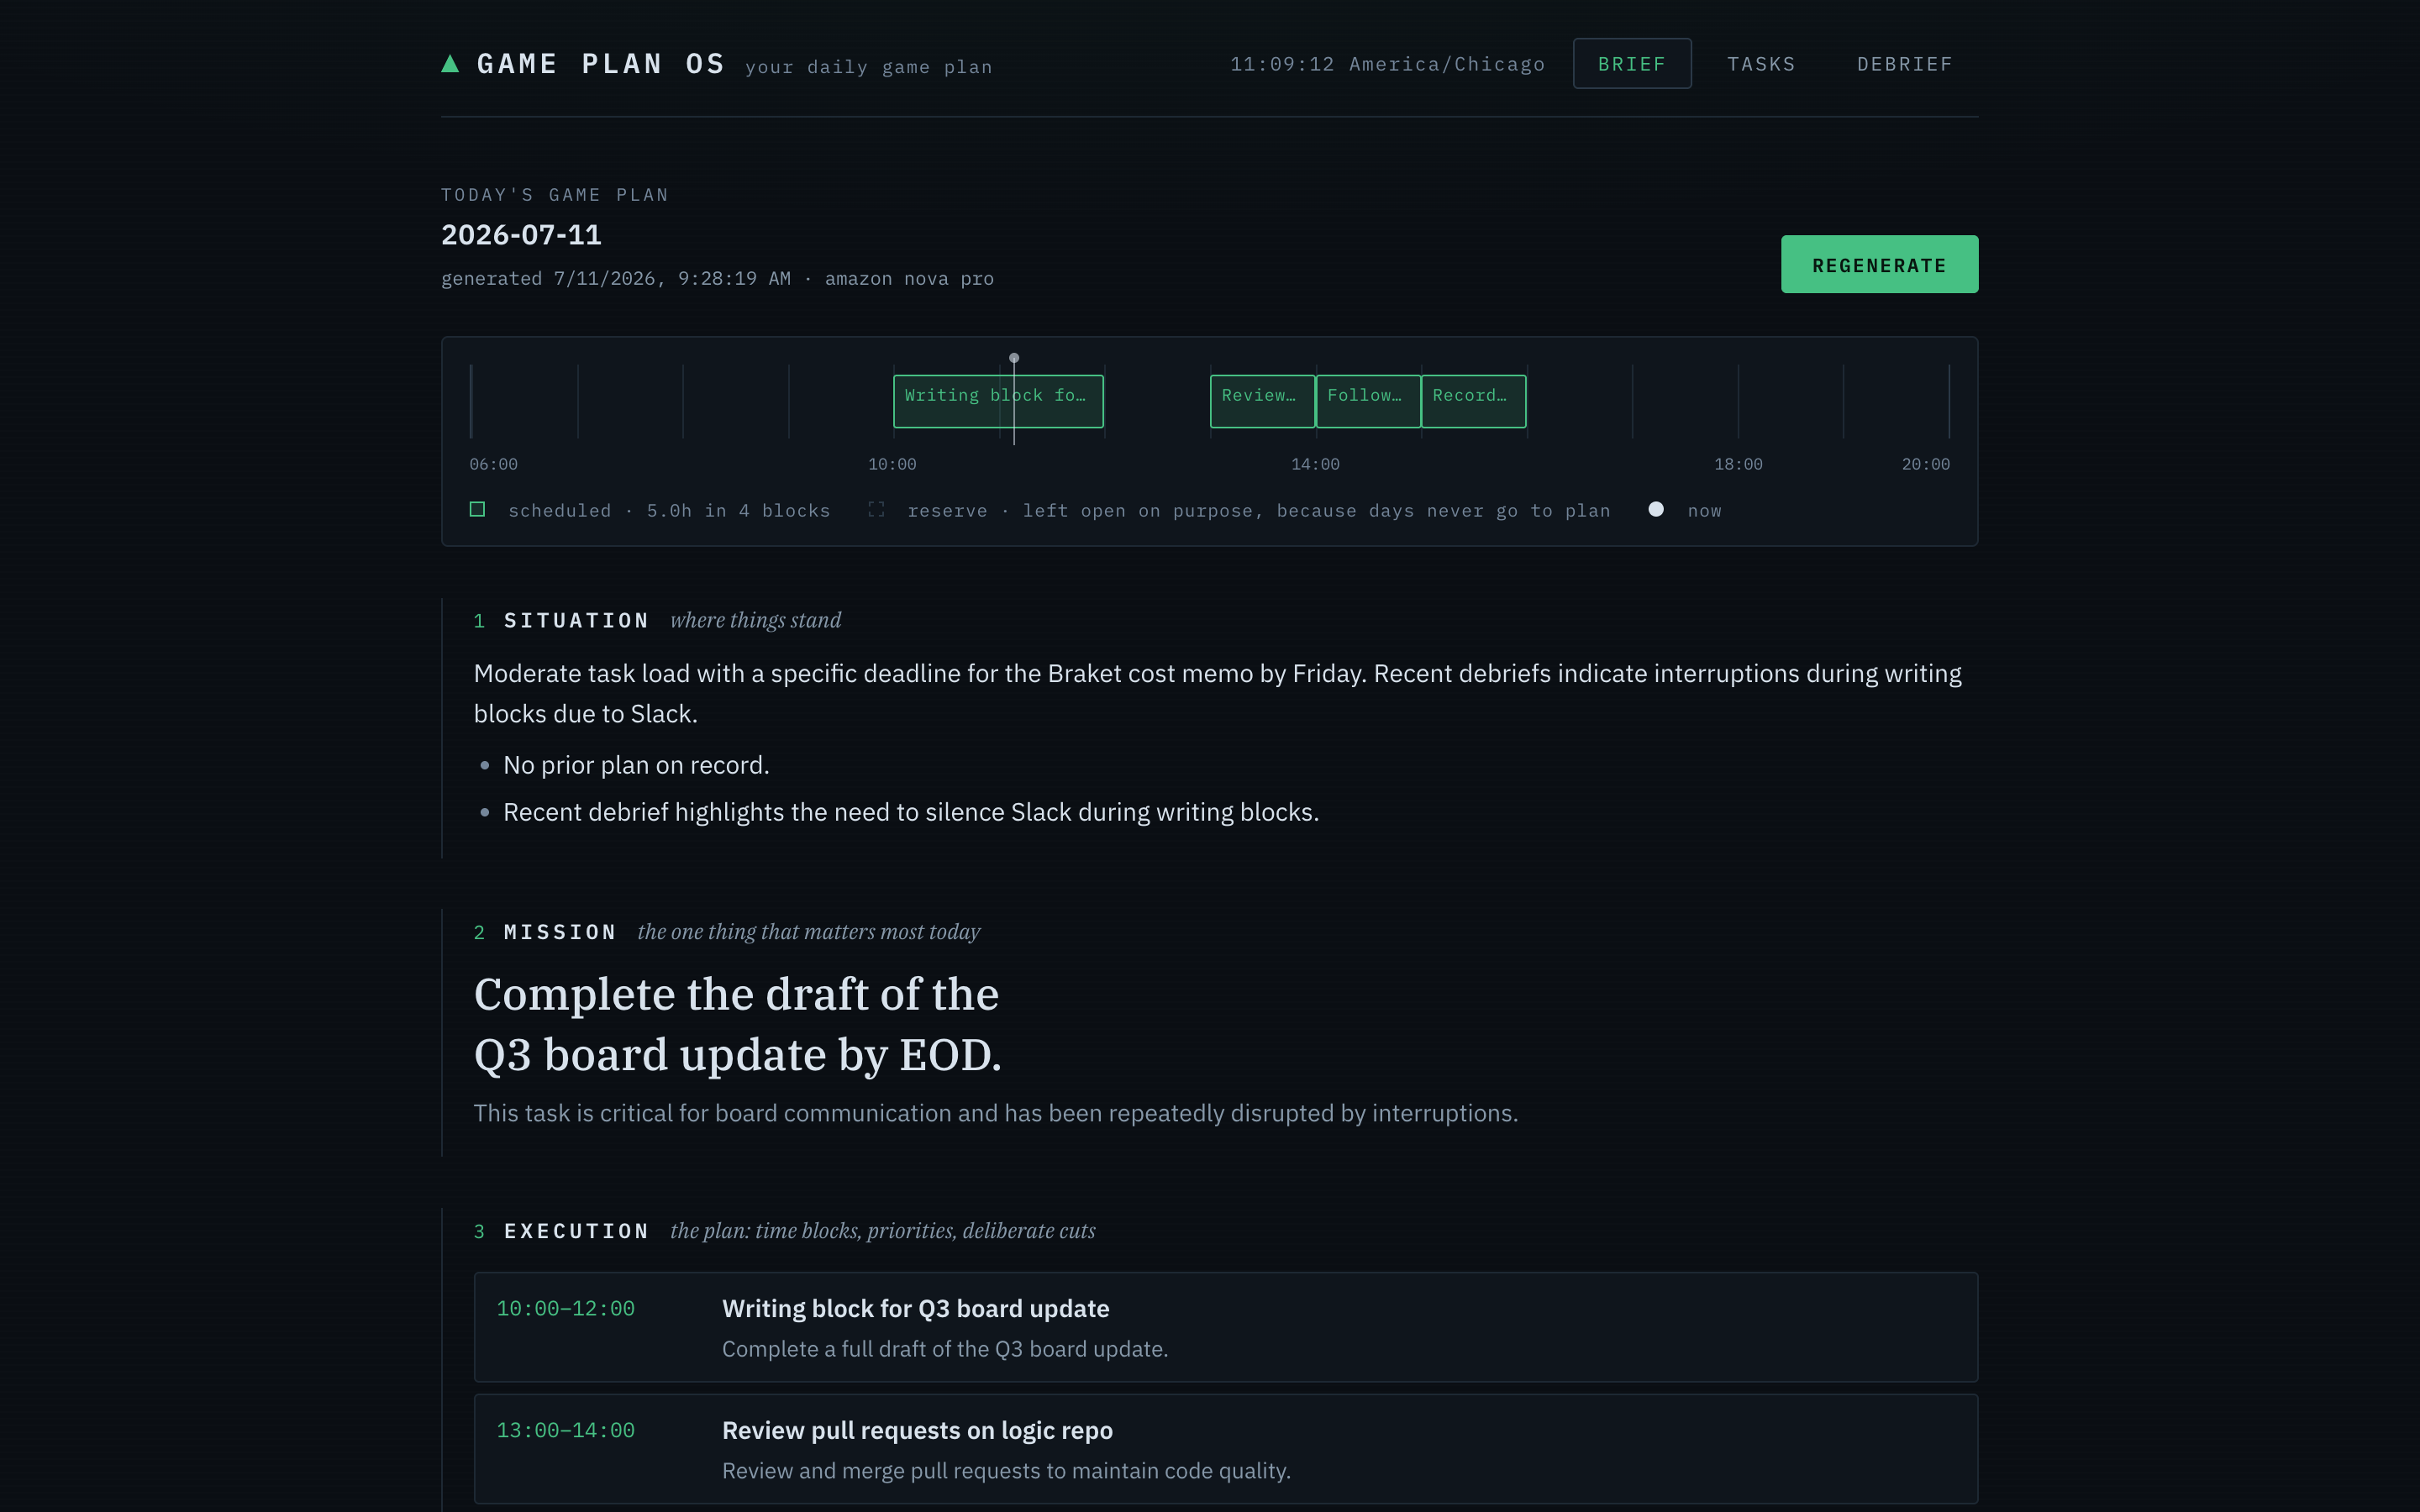
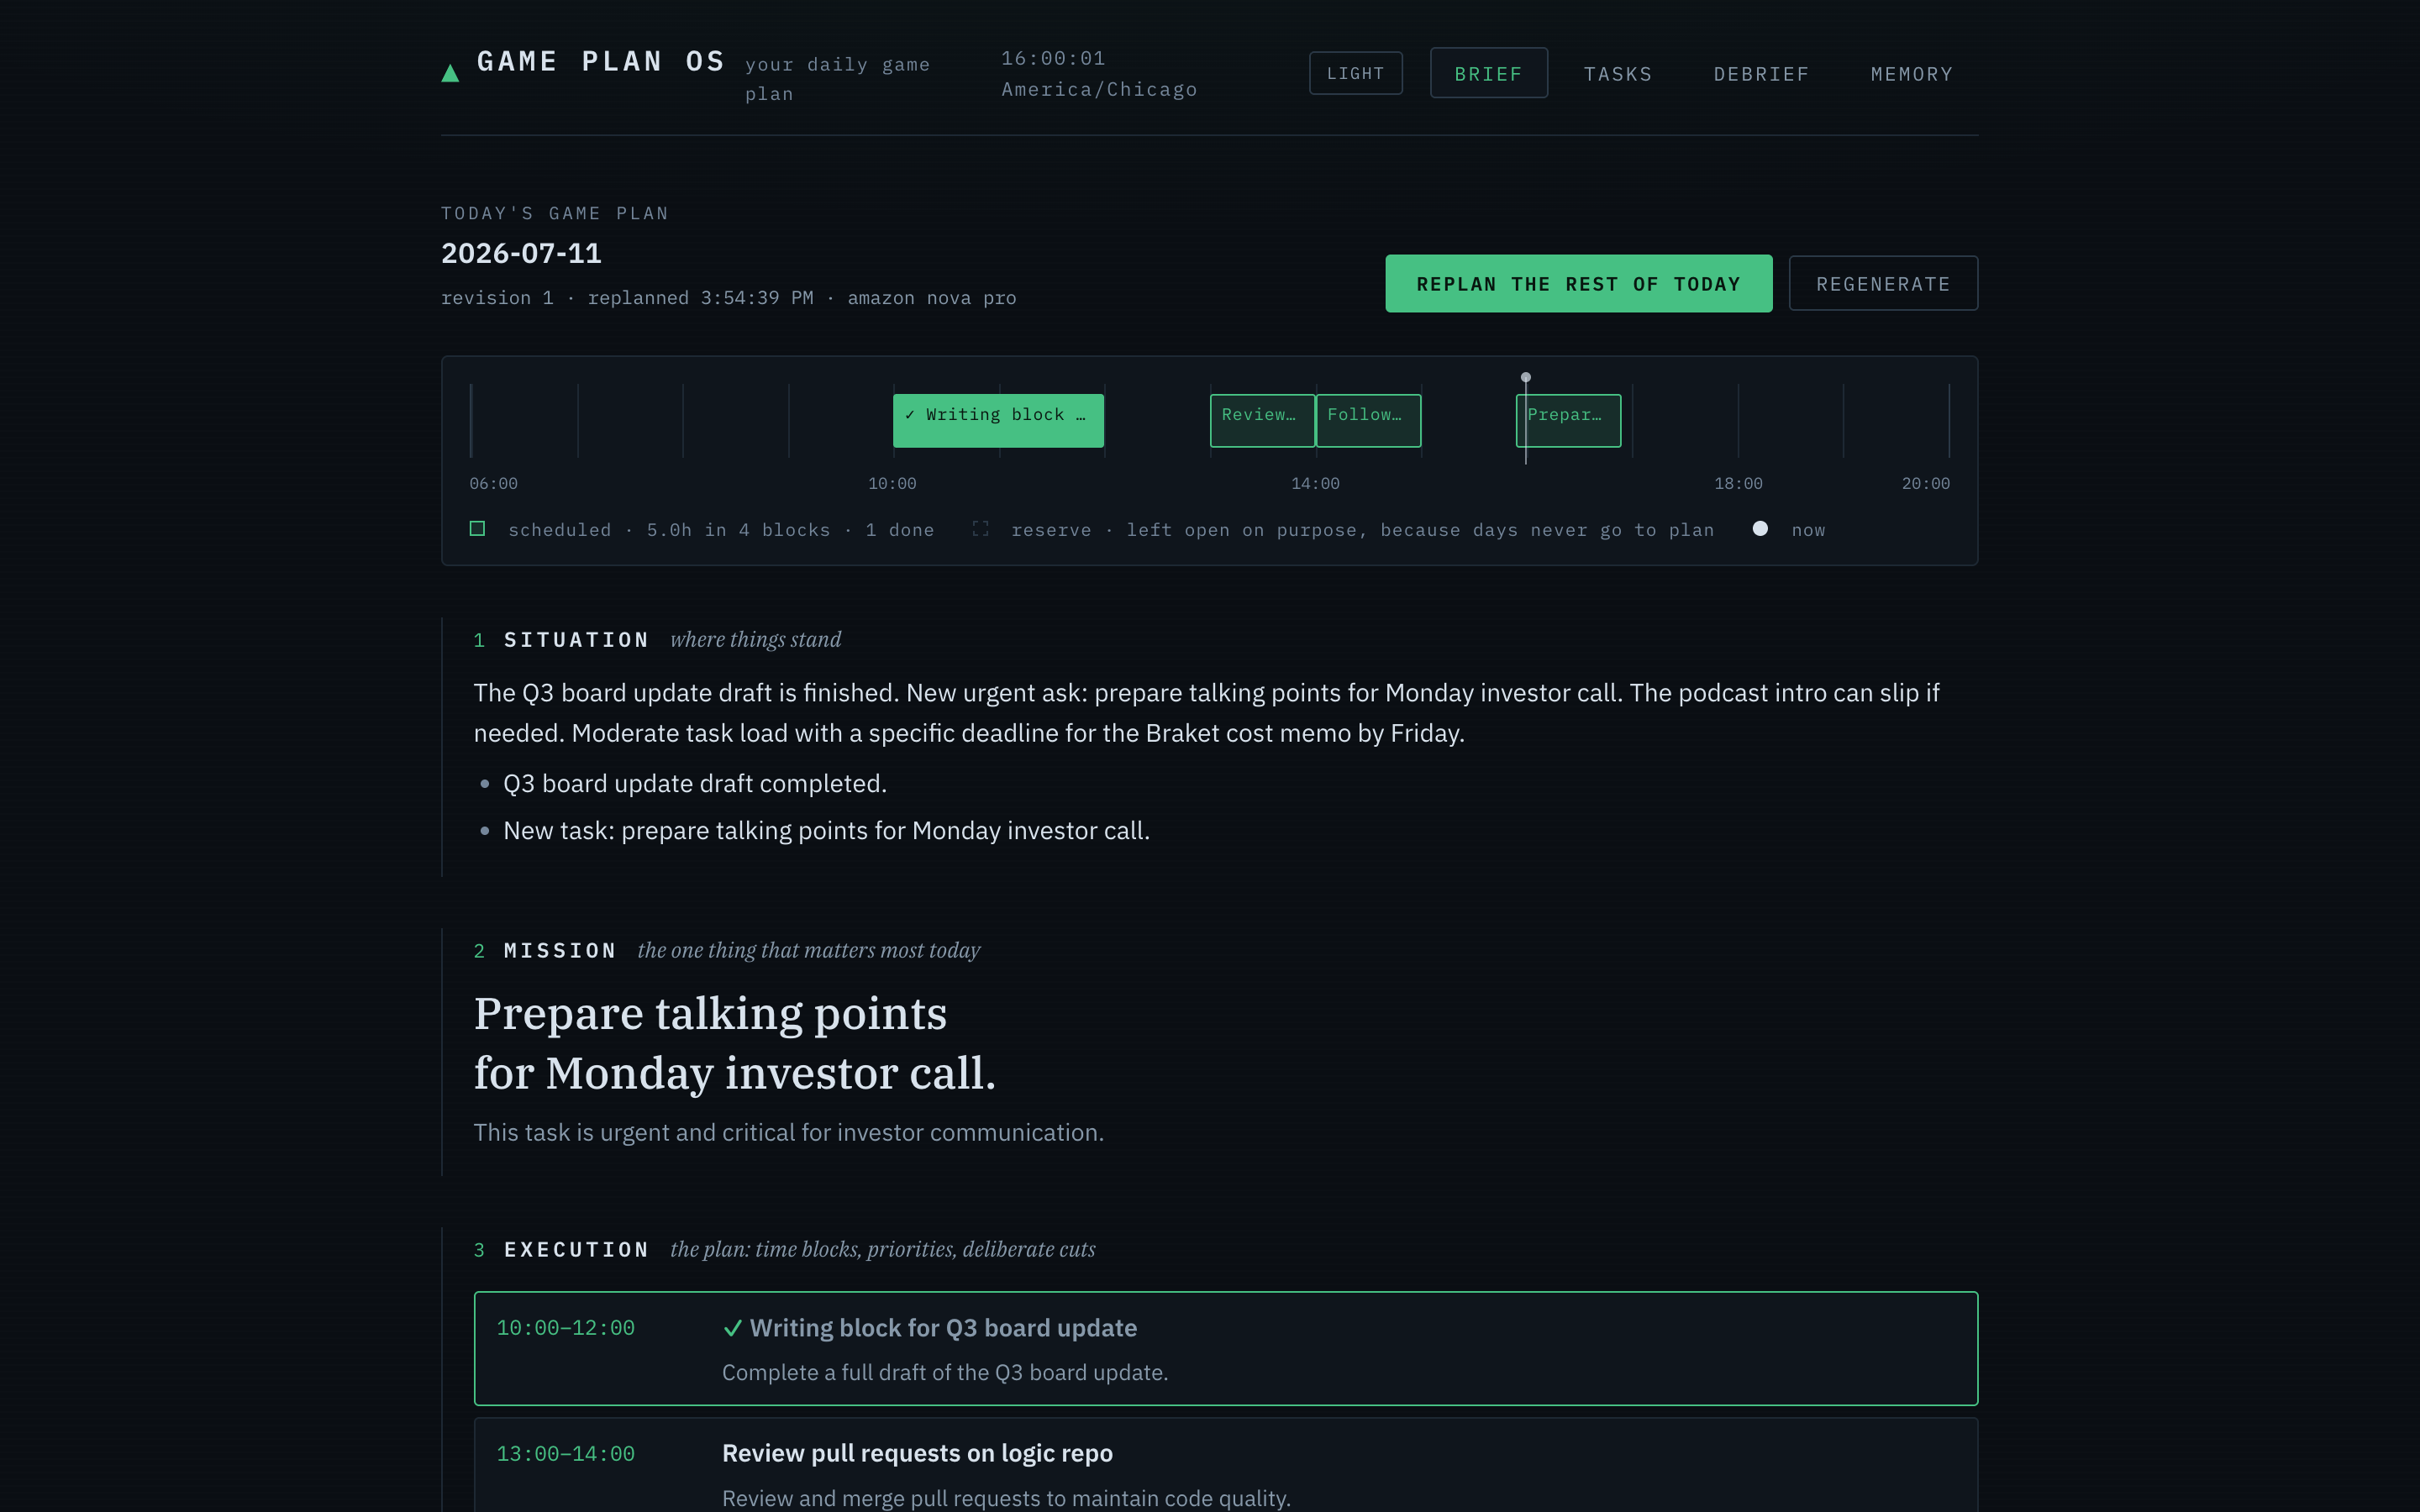
Refresh article draft and screenshots for the answerable-plan release
New shots from the live deployment: landing hero, brief with replan bar
and revision lede, tasks with editing and filters, Memory tab, light
theme. Article now covers the mid-day loop, the answerable plan, and
the public landing demo.

diff --git a/article/article-draft.md b/article/article-draft.md
@@ -32,11 +32,19 @@ you have to remember to talk to. It runs on a daily rhythm:
   gets *deliberately dropped*, with reasons), **Sustainment** (energy, breaks),
   and **Command & Signal** (decision points, blockers, and what to say no to
   today). It lands in my inbox and on a dashboard.
+- **As the day moves**, the plan is answerable. I mark blocks done or
+  skipped, and when reality diverges I report in — "finished the memo early;
+  dentist ran long" — and the plan renegotiates only the rest of the day: the
+  mission stays pinned, finished blocks stay history, and every new cut comes
+  with a reason. If I disagree with something it dropped, one click challenges
+  the cut and sends it back for renegotiation.
 - **Every evening**, it debriefs me: three questions generated from that
   morning's actual order, never generic. An after-action review compares plan
   to reality, names what slipped and why, and — when a pattern shows up across
   multiple debriefs — writes a preference into my profile. "Estimates on
   writing tasks run 2x long; pad them." Tomorrow's order is built on it.
+  Everything it learns is visible on a Memory tab, and anything wrong can be
+  deleted — a learning system you cannot inspect is a system you cannot trust.
 
 The doctrine is opinionated by design: one mission only, never more than 70%
 of working hours scheduled (unallocated time is the reserve — friction always
@@ -92,9 +100,23 @@ confident stays out of the profile. Without that filter, the agent learns
 noise; with it, watching my own work patterns accumulate in a DynamoDB
 document is genuinely uncomfortable in the way good feedback is.
 
+**A plan you can answer back to.** The first version rendered the morning
+order as read-only text, and using it surfaced the flaw immediately: a plan
+you can only regenerate wholesale is a report, not a tool. So the plan schema
+carries task IDs end to end (with hallucinated IDs scrubbed server-side),
+every block takes a done or skipped mark, the drop list takes a challenge,
+and a partial replan verb pins the mission and the finished morning while
+rebuilding only what remains. Watching Nova Pro handle "the draft is
+finished; a new urgent ask came in" — preserving history to the minute,
+scheduling the new work at the current time, and moving the now-redundant
+item to the drop list with the reason quoted back — was the moment this
+stopped feeling like a demo.
+
 **Deliberate cuts.** No Cognito, no calendar integration, no multi-user —
 a shared-secret header guards a single-principal tool. Every one of those
 features was a schedule risk with zero payoff for a weekend challenge.
+(Calendar, Todoist, and a Telegram channel to the same brain are the obvious
+next phase, and the architecture leaves room for them.)
 
 The real snags, honestly: **DynamoDB rejected the model's JSON on the very
 first call** — Nova returns `effort_hours: 1.5` and boto3 will not accept a
@@ -156,13 +178,18 @@ scheduled event a day, one email a day.
 - **Repo:** https://github.com/AltivumInc-Admin/gameplan-os (public — code,
   prompts, SAM template, and deployment guide)
 - **Live app:** https://main.dpg1b347fl82l.amplifyapp.com — deployed on
-  Amplify Hosting with CI/CD from the repo. It is a single-principal personal
-  tool behind an access key, so the screenshots below show the working loop.
-- Screenshots ready in `article/screenshots/`: 01 game plan hero (timeline +
-  mission), 02 full five-section plan, 03 task pool with triage scores,
-  04 evening debrief questions, 05 after-action review with two learned
-  preferences saved. [TODO: optionally add the morning email from your inbox
-  and a DynamoDB console shot, then upload all to Builder Center.]
+  Amplify Hosting with CI/CD from the repo. The landing page itself is a
+  working demo: it renders a sample morning brief with the real console
+  components, so you can hover the timeline and mark blocks done without a
+  key. The console behind the access key is single-principal by design; the
+  screenshots below show the working loop. Light and dark themes throughout.
+- Screenshots ready in `article/screenshots/`: 00 landing page (generated
+  dawn-terrain hero), 01 game plan hero (timeline + replan bar), 02 full
+  five-section plan with block actions, 03 task pool with triage scores and
+  inline editing, 04 evening debrief questions, 05 after-action review with
+  learned preferences, 06 the Memory tab, 07 the light theme. [TODO:
+  optionally add the morning email from your inbox and a DynamoDB console
+  shot, then upload all to Builder Center.]
 
 ---
 